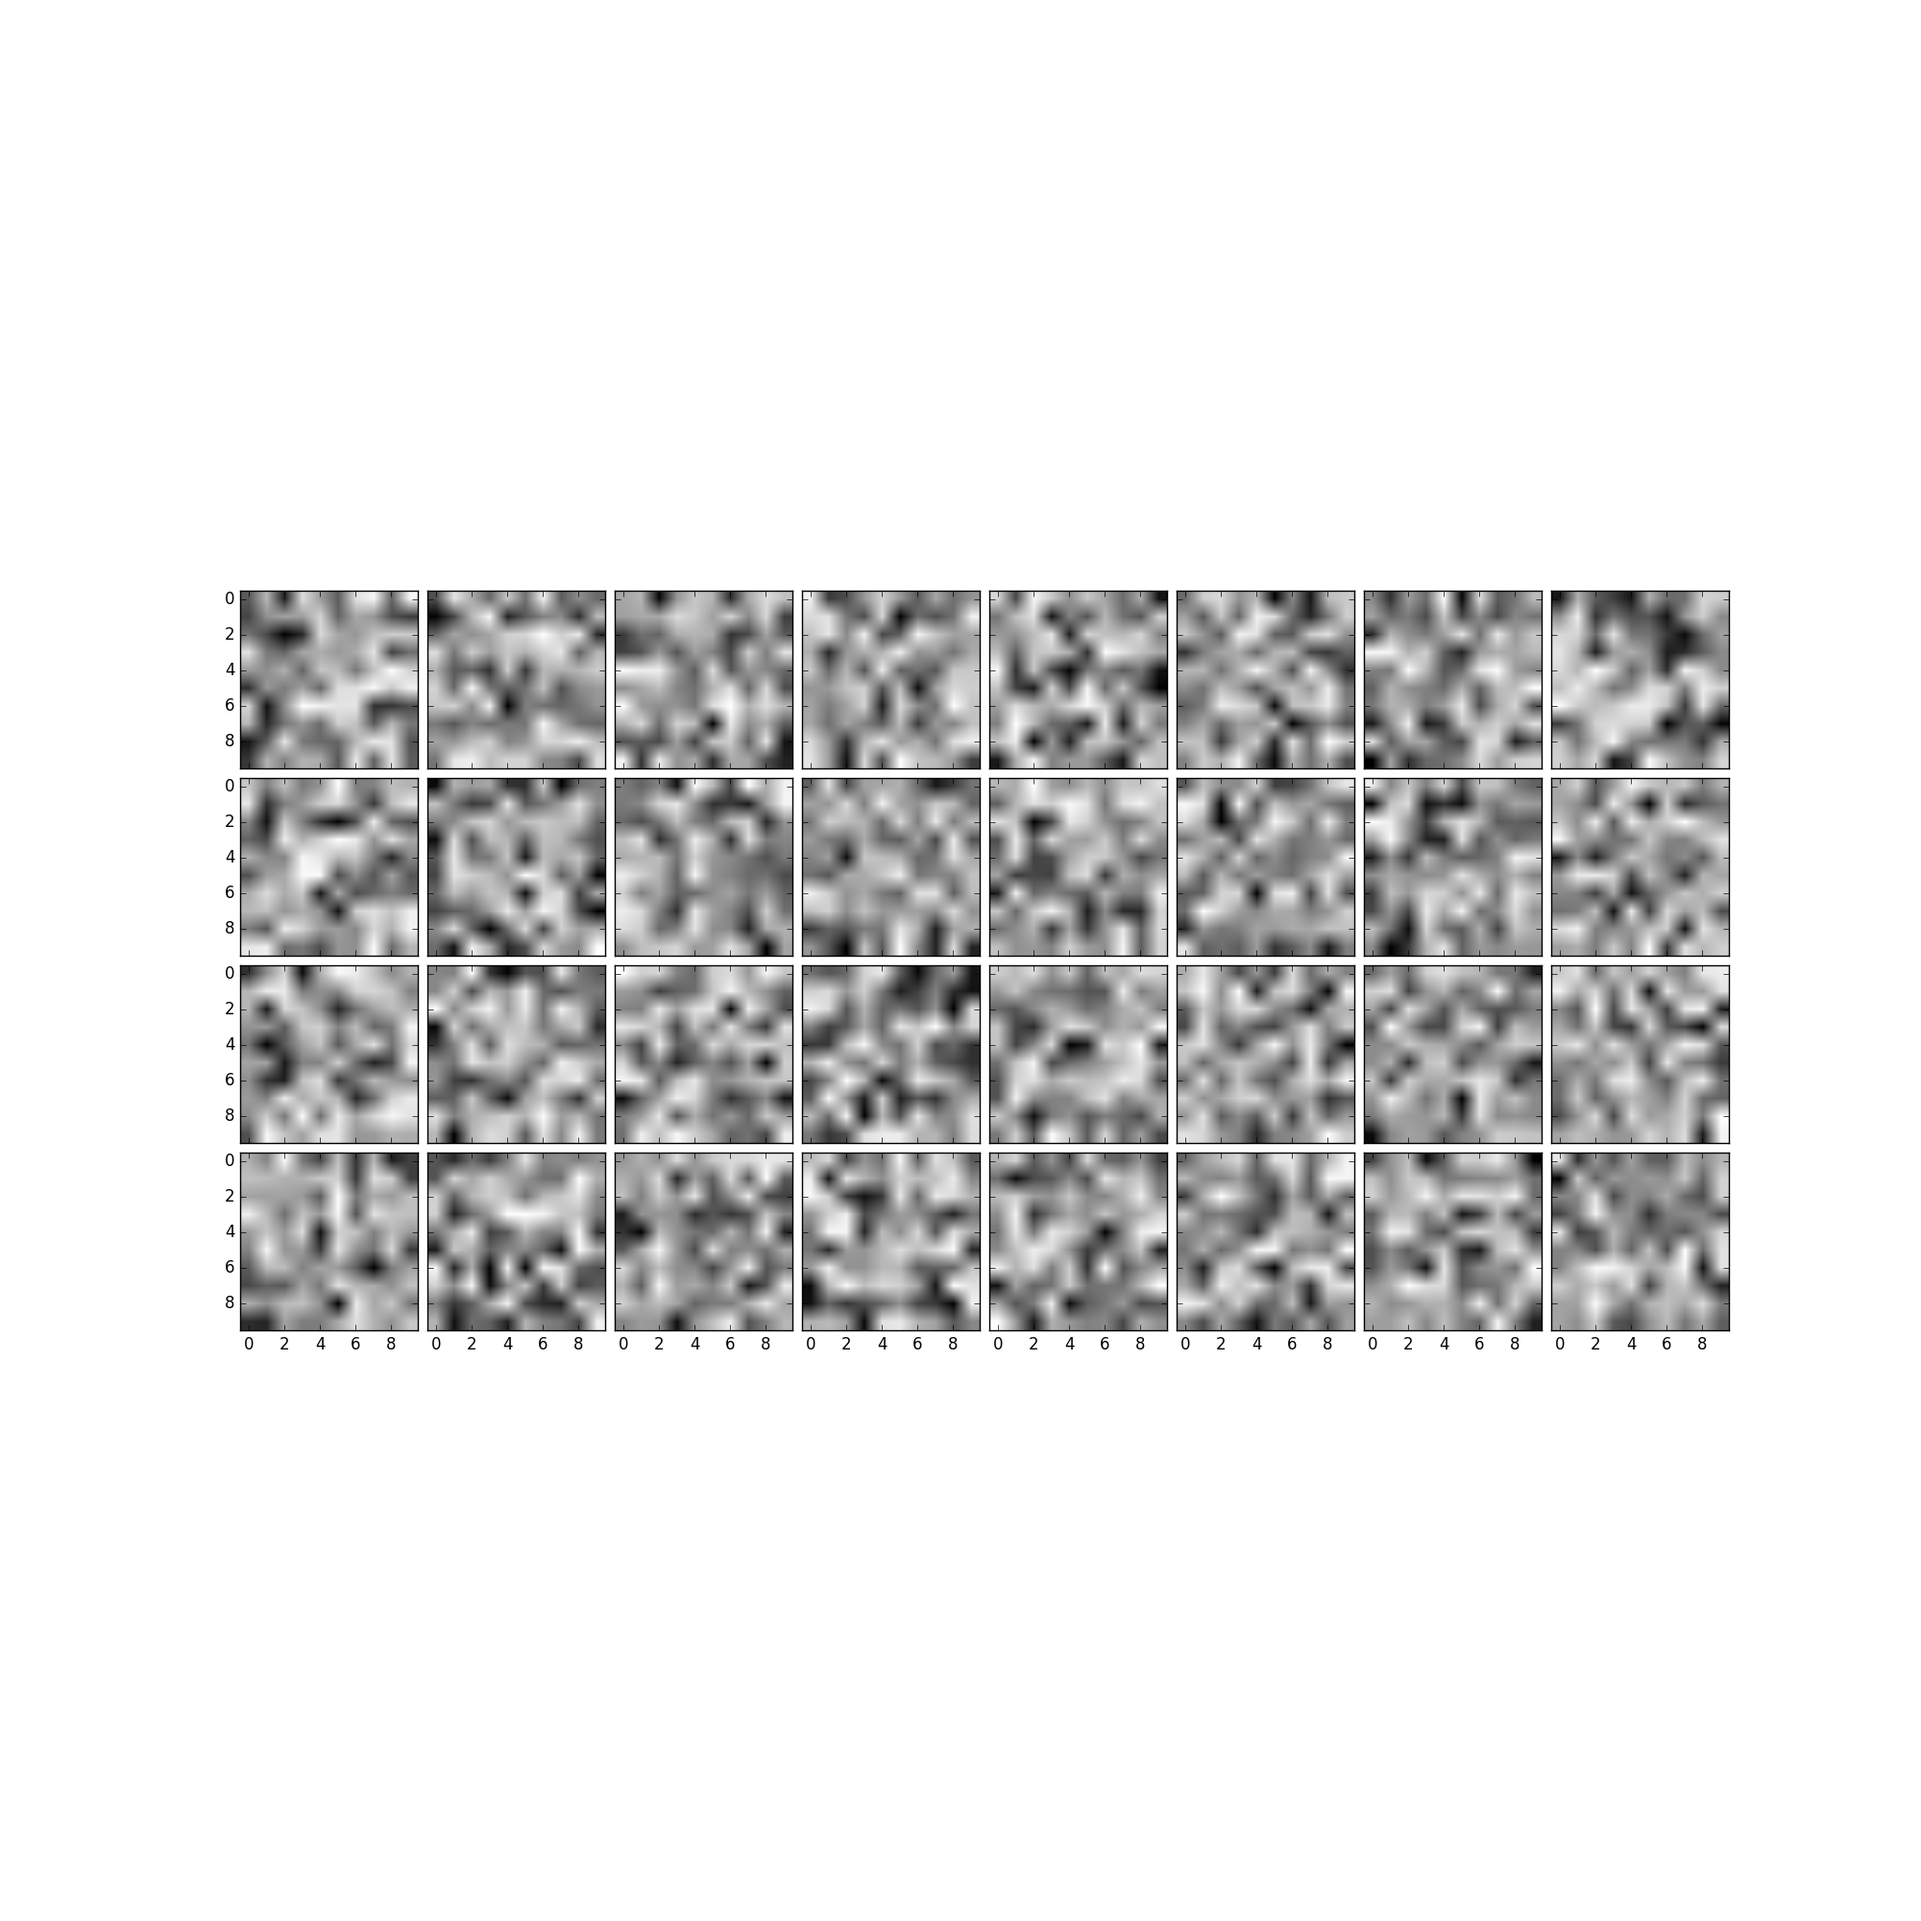
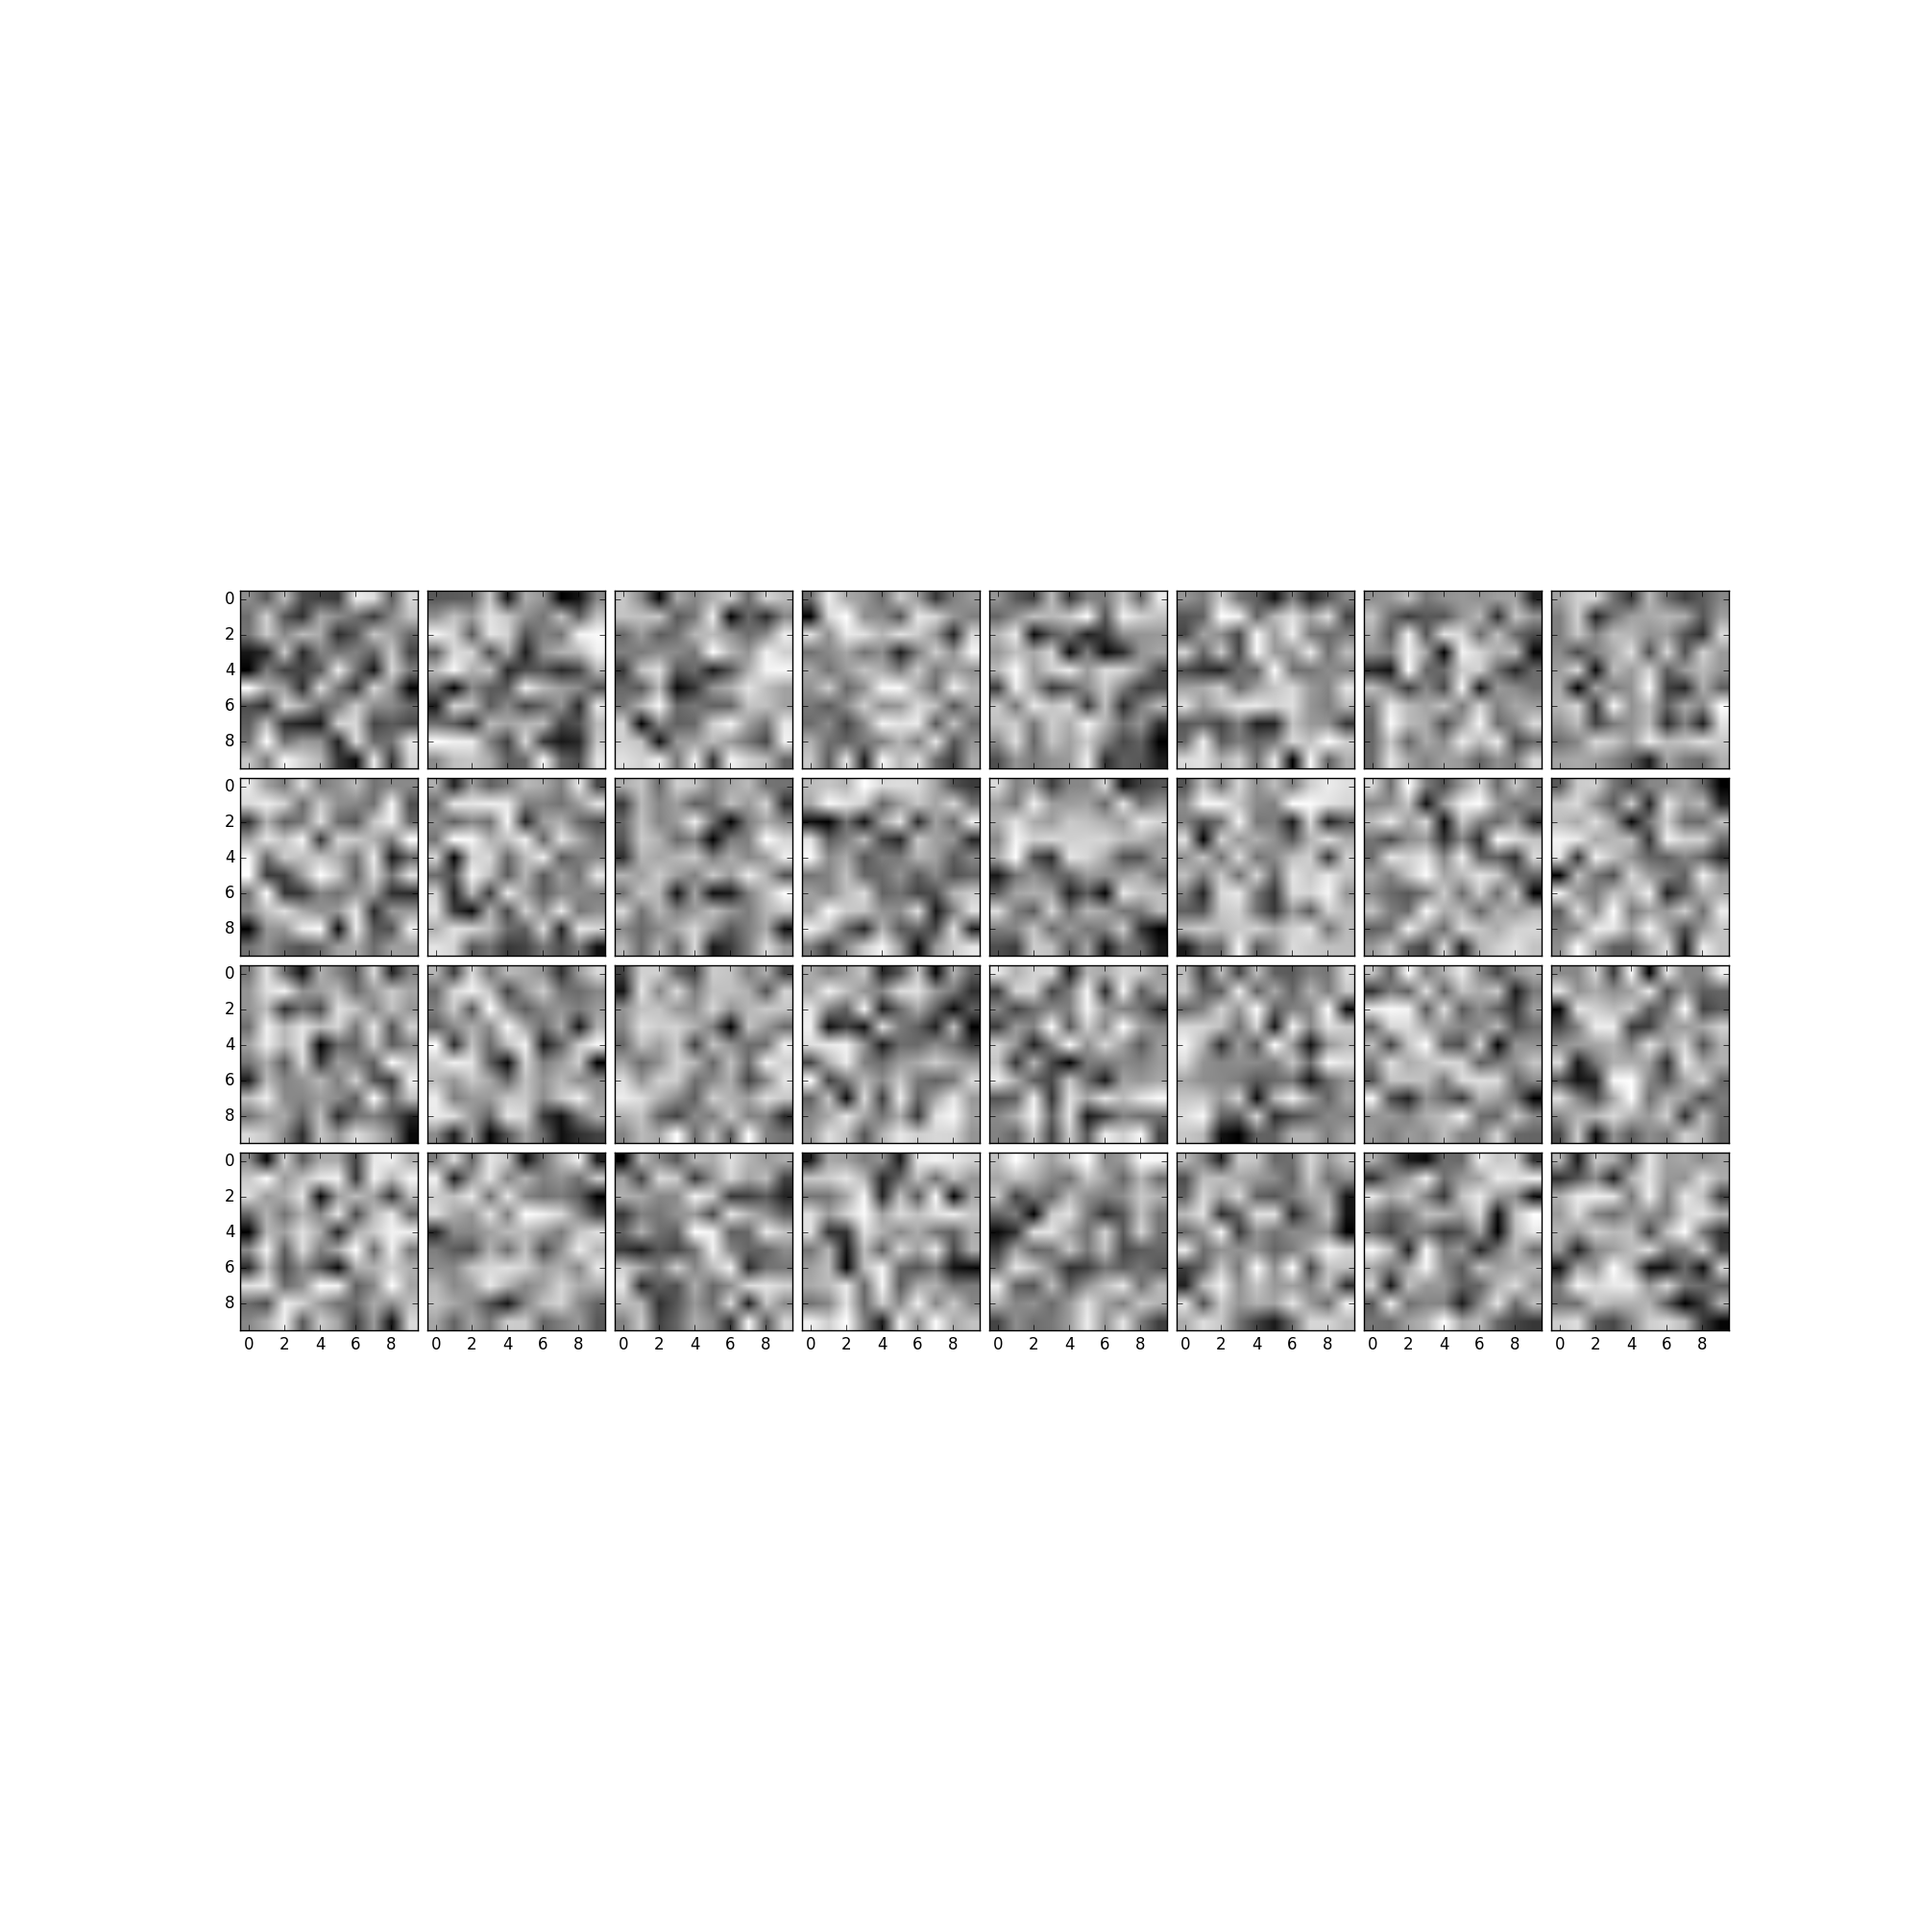
Fix bug in Autoencoders and add new output images

Changed region(s): [[0.124, 0.31, 0.899, 0.713]]

diff --git a/Image_AutoEncoder_ver1.py b/Image_AutoEncoder_ver1.py
@@ -8,13 +8,13 @@ import png
 
 
 #Globals
-BATCH_SIZE = 6
+BATCH_SIZE = 12
 IMG_WIDTH = 64
 PIXEL_DEPTH = 255
 CONV_KERNELS_1 = 32
 CONV_KERNELS_2 = 64
 
-EPOCHS = 2
+EPOCHS = 20
 DIRECTORY_NAME = 'Training_Images/'
 EVALUATION_SIZE = 600
 
@@ -231,6 +231,6 @@ plt.title("Loss")
 plt.plot(loss)
 f.savefig("Image_Autoencoder_Ver1_Outputs/Loss_Array.png")
 plt.close(f)
-my_autoencoder.evaluate_graph(sess,0,int((EPOCHS * 3000) // BATCH_SIZE),False)
+my_autoencoder.evaluate_graph(sess,0,3000 // BATCH_SIZE,False)
 my_autoencoder.save_normalized_weights(sess)
 

diff --git a/Image_AutoEncoder_ver2.py b/Image_AutoEncoder_ver2.py
@@ -272,7 +272,7 @@ with open(my_autoencoder.output_root_directory + "loss.npy",'w') as f:
 #plt.plot(loss)
 #f.savefig("Image_Autoencoder_Ver2_Outputs/Loss_Array.png")
 #plt.close(f)
-my_autoencoder.evaluate_graph(sess,0,int((EPOCHS * 3000) // BATCH_SIZE),False)
+my_autoencoder.evaluate_graph(sess,0,int(3000 // BATCH_SIZE),False)
 W_conv1,W_conv2 = sess.run([my_autoencoder.op_dict['W_conv1'],my_autoencoder.op_dict['W_conv2']])
 with open(my_autoencoder.output_root_directory + "W_conv1.npy",'w') as f:
 	pickle.dump(W_conv1,f)
